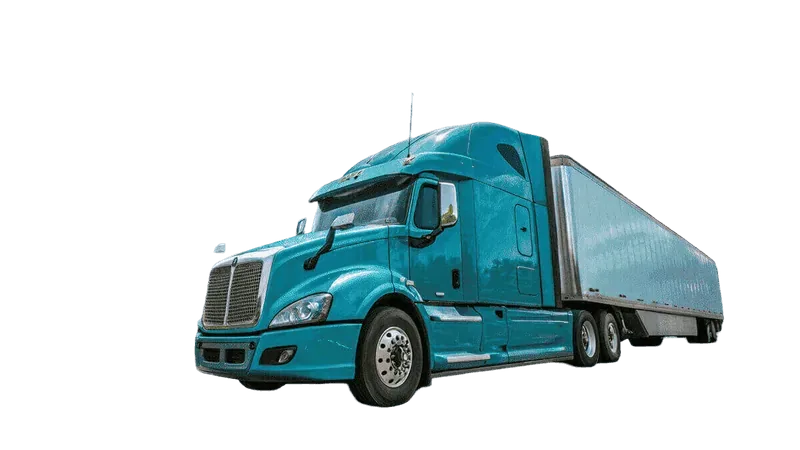
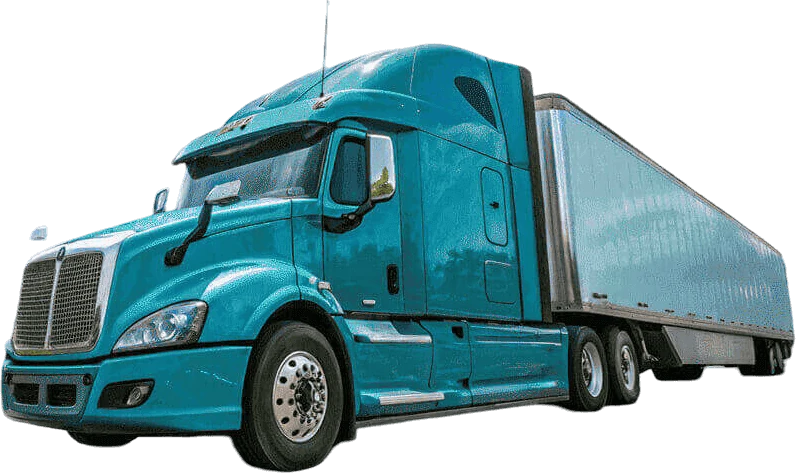
Кейс CLG: чіткіші літак і вантажівка, вантажівку видно цілком; авіа в телефоні
- Літак, вантажівка й потяг перезібрані з оригіналів сайту 1200 px
  (раніше — зменшені копії 800 px), порожні прозорі поля обрізано.
- Літак і вантажівка в 1,5 раза менші. Вантажівка виїжджає цілком
  і кабіною трохи заходить на текст; на телефоні теж уся в кадрі.
- Синій блок «Почали з нуля»: заголовок менший — три рядки замість
  чотирьох; у телефоні тепер сторінка авіаперевезень.

Claude-Session: https://claude.ai/code/session_01SMjZxgubqVdx5HvY2Cj9tw

diff --git a/clg.html b/clg.html
@@ -150,7 +150,7 @@ h1,h2,h3,.h{font-family:var(--head);font-weight:800;text-transform:uppercase;
 .turn-grid{display:grid;grid-template-columns:2fr 1fr;gap:clamp(20px,3.4vw,46px);
            align-items:center}
 .turn-txt{min-width:0}
-.turn h2{font-size:clamp(32px,5.6vw,80px);max-width:17ch}
+.turn h2{font-size:clamp(28px,4.2vw,62px);max-width:24ch}
 .turn p{max-width:54ch;margin-top:22px;font-size:clamp(17px,1.9vw,21px)}
 .turn .three{display:grid;grid-template-columns:repeat(3,1fr);gap:var(--gap);margin-top:34px}
 .turn .three div{border:1px solid rgba(255,255,255,.45);border-radius:var(--r);padding:20px 22px;
@@ -374,9 +374,9 @@ section[id]{scroll-margin-top:64px}
    і трохи заходить на текст. Вантажівка зліва: кабіна трохи на тексті,
    причіп за краєм екрана — її ширину й місце рахує
    скрипт (--tw — ширина тексту). */
-.a-plane{right:-17vw;bottom:12vh;width:clamp(520px,60vw,1120px);rotate:7deg}
+.a-plane{right:-4vw;bottom:25vh;width:clamp(340px,36vw,700px);rotate:7deg}
 /* Вантажівка в оригіналі дивиться ліворуч: віддзеркалюємо, щоб їхала зліва. */
-.a-truck{right:calc(50% + var(--tw) / 2 - 130px);bottom:1vh;
+.a-truck{right:calc(50% + var(--tw) / 2 - 40px);bottom:3vh;
          width:var(--trw,clamp(300px,30vw,560px));scale:-1 1}
 .a-box.swing{animation:swing 5s ease-in-out infinite}
 @keyframes swing{0%,100%{rotate:-1deg}50%{rotate:1deg}}
@@ -384,8 +384,8 @@ section[id]{scroll-margin-top:64px}
    стають над текстом по боках від контейнера. */
 @media (max-width:760px){
   .a-box{width:150px;margin-left:-75px}
-  .a-plane{left:auto;right:-16vw;bottom:auto;top:4vh;width:62vw}
-  .a-truck{right:auto;left:-18vw;bottom:auto;top:24vh;width:60vw}
+  .a-plane{left:auto;right:-4vw;bottom:auto;top:5vh;width:56vw}
+  .a-truck{right:auto;left:3vw;bottom:auto;top:22vh;width:40vw}
 }
 @media (prefers-reduced-motion:reduce){ .a-box.swing{animation:none} }
 
@@ -602,23 +602,23 @@ footer{background:var(--dark) var(--grid-l);color:#fff;padding:52px 0 28px;margi
   <h2>Один стиль<em>.</em><br>Чотири канали<em>.</em></h2>
 
   <div class="lane" aria-hidden="true">
-    <img src="images/clg/3d-truck.webp" alt="" width="800" height="450">
+    <img src="images/clg/3d-truck.webp" alt="" width="796" height="473">
     <span>сайт UA / EN</span><span class="hot">33 креативи для таргету</span>
     <span>8 листів розсилки</span><span class="hot">презентація на 10 слайдів</span>
-    <img src="images/clg/3d-truck.webp" alt="" width="800" height="450">
+    <img src="images/clg/3d-truck.webp" alt="" width="796" height="473">
     <span>сайт UA / EN</span><span class="hot">33 креативи для таргету</span>
     <span>8 листів розсилки</span><span class="hot">презентація на 10 слайдів</span>
   </div>
 
   <div class="lane back" aria-hidden="true">
     <span>авіа</span><span>море FCL / LCL</span>
-    <img src="images/clg/3d-plane.webp" alt="" width="800" height="450">
+    <img src="images/clg/3d-plane.webp" alt="" width="1022" height="281">
     <span>авто FTL</span><span>залізниця</span><span class="hot">митне оформлення</span>
-    <img src="images/clg/3d-train.webp" alt="" width="800" height="450">
+    <img src="images/clg/3d-train.webp" alt="" width="678" height="293">
     <span>авіа</span><span>море FCL / LCL</span>
-    <img src="images/clg/3d-plane.webp" alt="" width="800" height="450">
+    <img src="images/clg/3d-plane.webp" alt="" width="1022" height="281">
     <span>авто FTL</span><span>залізниця</span><span class="hot">митне оформлення</span>
-    <img src="images/clg/3d-train.webp" alt="" width="800" height="450">
+    <img src="images/clg/3d-train.webp" alt="" width="678" height="293">
   </div>
 </section>
 
@@ -643,10 +643,10 @@ footer{background:var(--dark) var(--grid-l);color:#fff;padding:52px 0 28px;margi
     <figure class="phone">
       <div class="screen"><div class="holder">
         <img src="images/clg/site-home-mobile.webp" alt="Сайт CLG на телефоні" width="390" height="844" loading="lazy">
-        <iframe data-src="https://clg-site-three.vercel.app/" hidden
-                title="Сайт CLG на телефоні — гортайте"></iframe>
+        <iframe data-src="https://clg-site-three.vercel.app/posluhy-aviaperevezennia-vantazhiv" hidden
+                title="Сторінка авіаперевезень CLG на телефоні — гортайте"></iframe>
       </div></div>
-      <figcaption>Той самий сайт у&nbsp;телефоні&nbsp;— гортайте</figcaption>
+      <figcaption>Сторінка авіаперевезень&nbsp;— гортайте</figcaption>
     </figure>
   </div>
 </section>
@@ -688,9 +688,9 @@ footer{background:var(--dark) var(--grid-l);color:#fff;padding:52px 0 28px;margi
     <div class="k k-3d">
       <h3>3D-ілюстрації</h3>
       <div class="objs">
-        <img style="--d:0s" src="images/clg/3d-plane.webp" alt="3D-літак" width="800" height="450" loading="lazy">
-        <img style="--d:.6s" src="images/clg/3d-truck.webp" alt="3D-вантажівка" width="800" height="450" loading="lazy">
-        <img style="--d:1.2s" src="images/clg/3d-train.webp" alt="3D-потяг" width="800" height="450" loading="lazy">
+        <img style="--d:0s" src="images/clg/3d-plane.webp" alt="3D-літак" width="1022" height="281" loading="lazy">
+        <img style="--d:.6s" src="images/clg/3d-truck.webp" alt="3D-вантажівка" width="796" height="473" loading="lazy">
+        <img style="--d:1.2s" src="images/clg/3d-train.webp" alt="3D-потяг" width="678" height="293" loading="lazy">
         <img style="--d:.3s" src="images/clg/3d-hook.webp" alt="3D-контейнер на тросах" width="630" height="1050" loading="lazy">
         <img style="--d:.9s" src="images/clg/3d-hands.webp" alt="3D-контейнер у руках" width="500" height="548" loading="lazy">
         <img style="--d:1.5s" src="images/clg/3d-docs.webp" alt="3D-документи з митними печатками" width="600" height="418" loading="lazy">
@@ -734,8 +734,8 @@ footer{background:var(--dark) var(--grid-l);color:#fff;padding:52px 0 28px;margi
 <section class="anim" id="motion" aria-label="Анімації сайту">
   <div class="anim-stage">
     <div class="a-top"><img class="a-box" src="images/clg/3d-hook.webp" alt="" width="630" height="1050"></div>
-    <img class="a-plane" src="images/clg/3d-plane.webp" alt="" width="800" height="450">
-    <img class="a-truck" src="images/clg/3d-truck.webp" alt="" width="800" height="450">
+    <img class="a-plane" src="images/clg/3d-plane.webp" alt="" width="1022" height="281">
+    <img class="a-truck" src="images/clg/3d-truck.webp" alt="" width="796" height="473">
     <div class="anim-txt">
       <h2>Анімації, які показують<br>доставку</h2>
       <p>На&nbsp;сайті CLG рух&nbsp;— не&nbsp;прикраса: людина бачить сам процес
@@ -1178,10 +1178,10 @@ document.documentElement.classList.add('js');
       return r.getBoundingClientRect().width;
     }));
     stage.style.setProperty('--tw', Math.round(w) + 'px');
-    /* Вантажівка вдвічі довша за вільне місце ліворуч від тексту:
-       кабіна трохи заходить на текст, причіп ховається за краєм. */
+    /* Вантажівка видна цілком: від лівого краю (16 px) до тексту,
+       кабіною на 40 px заходить на текст. */
     const free = (stage.clientWidth - w) / 2 - 20;
-    stage.style.setProperty('--trw', Math.round(Math.min(1300, Math.max(480, free * 2.1))) + 'px');
+    stage.style.setProperty('--trw', Math.round(Math.min(620, Math.max(220, free + 40 - 16))) + 'px');
   };
   measure();
   addEventListener('resize', measure);
